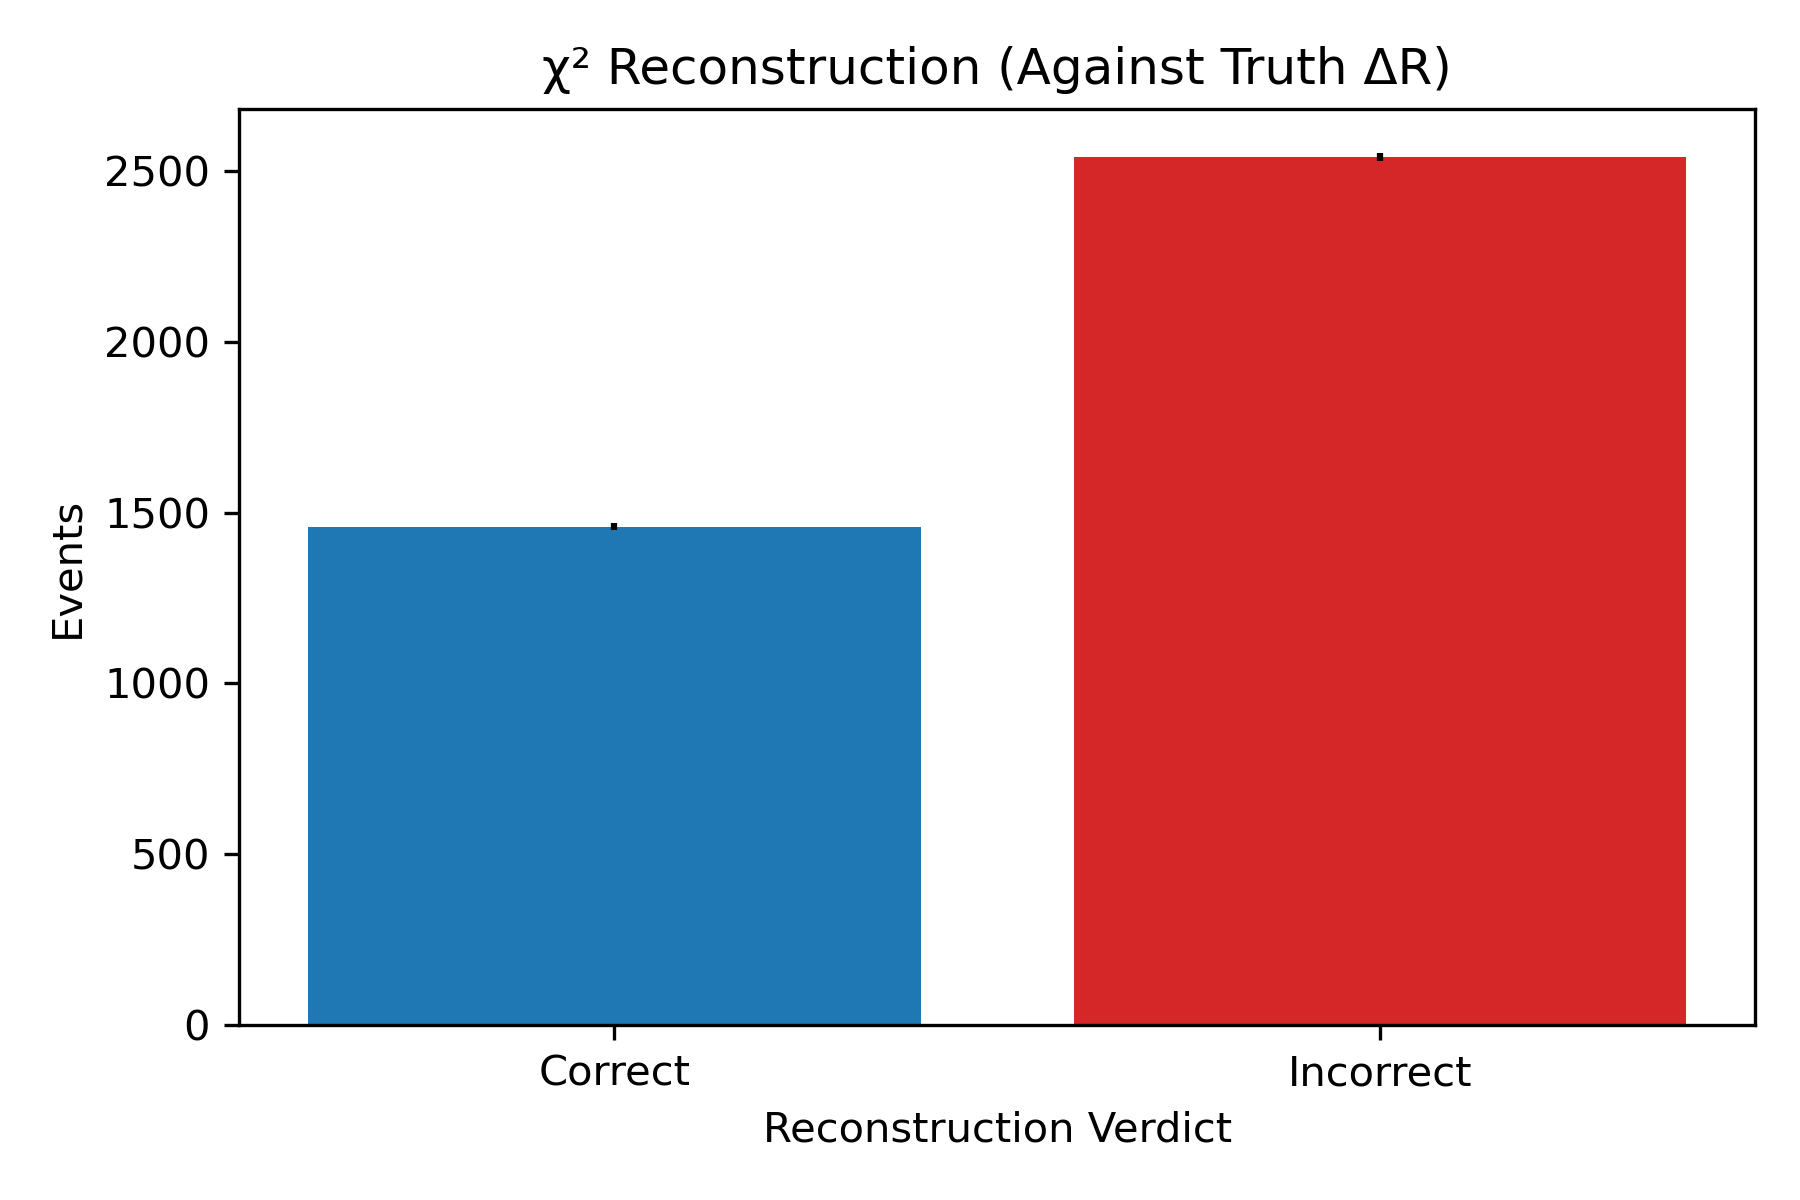
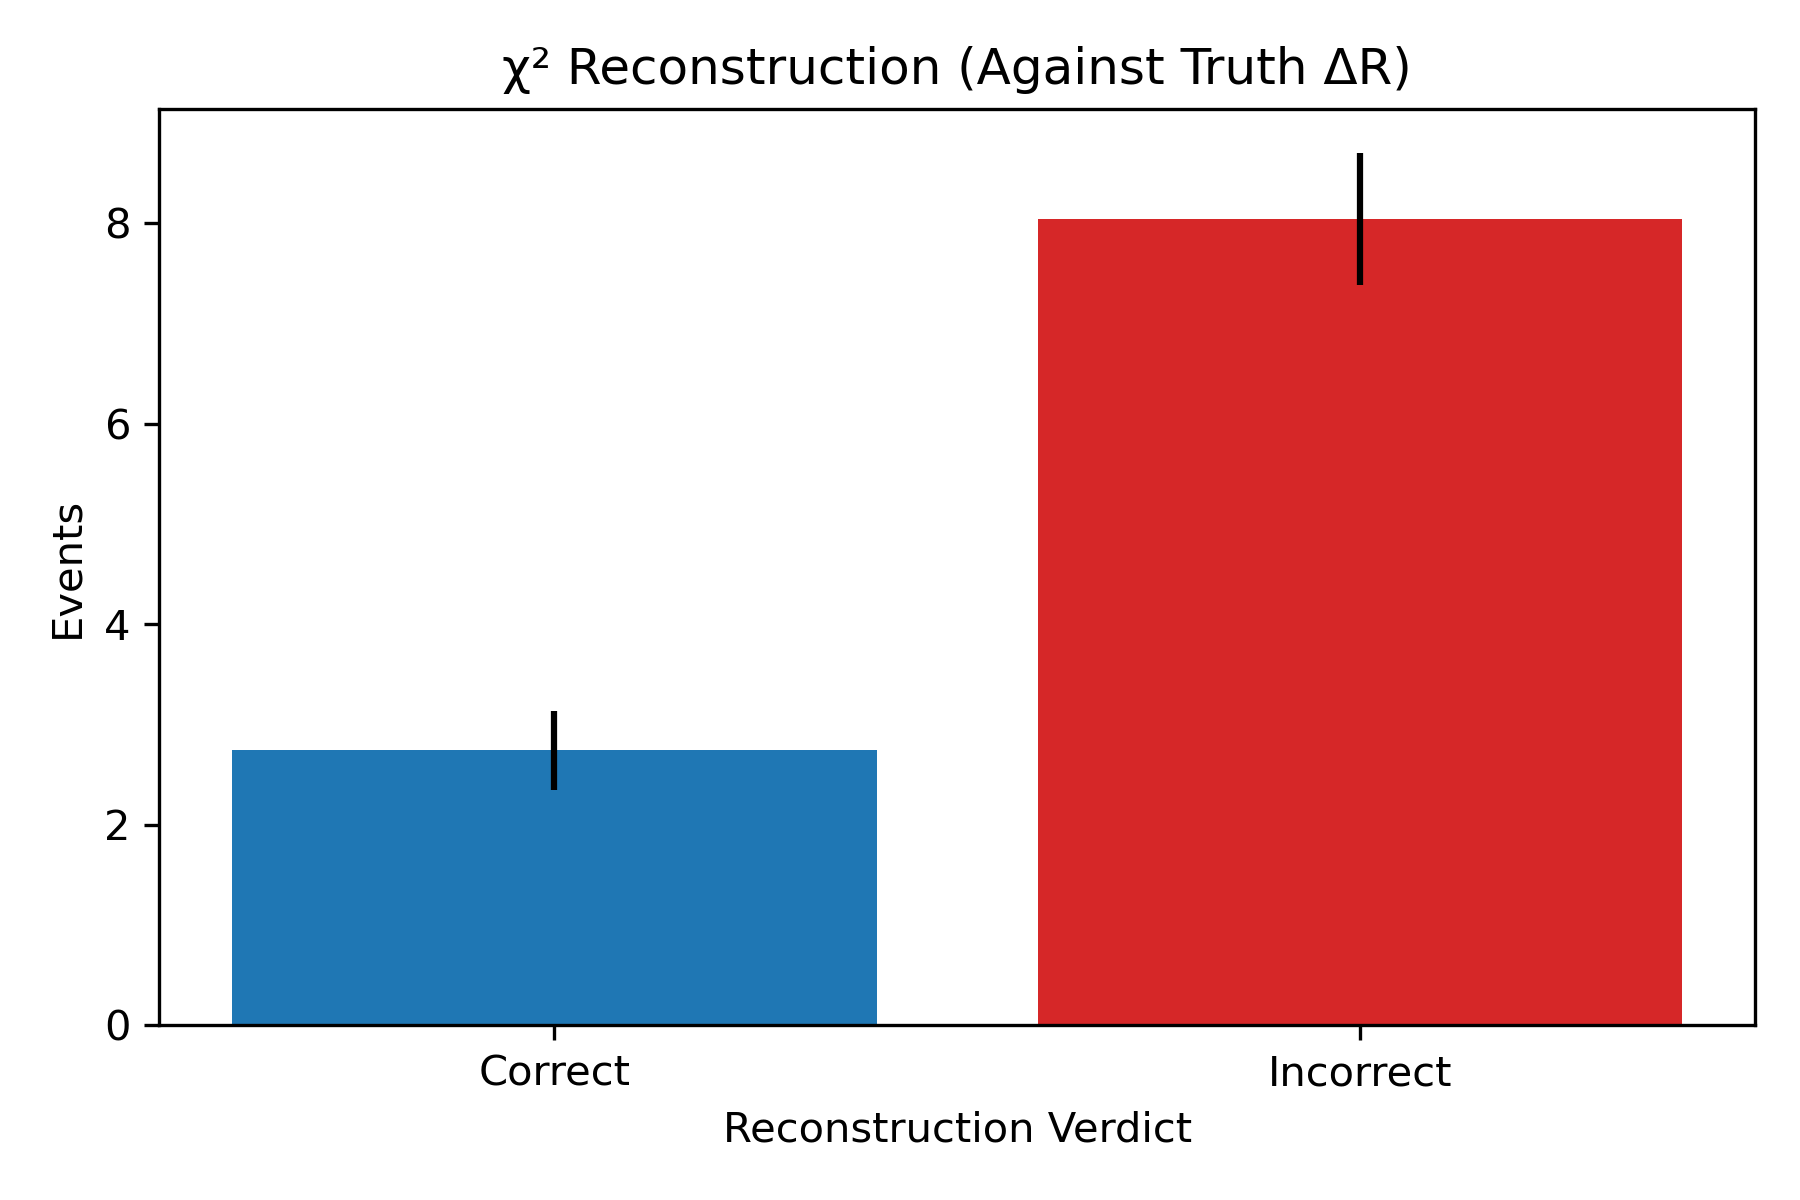
2.1.1 - Chi2 recon efficiency v. jet multiplicity, improved python plotting

diff --git a/read_n_plot.py b/read_n_plot.py
@@ -1,0 +1,91 @@
+import numpy as np
+import matplotlib.pyplot as plt
+
+def read_efficiency_block(filename, header):
+    data = []
+    reading = False
+
+    with open(filename) as f:
+        for line in f:
+            line = line.strip()
+
+            if not line:
+                reading = False
+                continue
+
+            if line.startswith("#"):
+                reading = header in line
+                continue
+
+            if reading:
+                nj, eff, err = map(float, line.split(","))
+                data.append((int(nj), eff, err))
+
+    data = np.array(data)
+    return data[:,0], data[:,1], data[:,2]
+
+
+nj_lpb, eff_lpb, err_lpb = read_efficiency_block(
+    "efficiency_v_jets.py", "lpb"
+)
+
+nj_lmbb, eff_lmbb, err_lmbb = read_efficiency_block(
+    "efficiency_v_jets.py", "lmbb"
+)
+
+plt.figure(figsize=(7,5))
+
+# ─────────────────────────────────────
+# l+ b  (step + error bars)
+# ─────────────────────────────────────
+plt.step(
+    nj_lpb, eff_lpb,
+    where="mid",
+    color="blue",
+    linewidth=1.5,
+    label=r"$b$-lepton pairing"
+)
+
+plt.errorbar(
+    nj_lpb, eff_lpb, yerr=err_lpb,
+    fmt="none",              # <-- no markers, no line
+    ecolor="black",
+    elinewidth=1,
+    capsize=4,
+    capthick=1
+)
+
+# ─────────────────────────────────────
+# l− b̄
+# ─────────────────────────────────────
+plt.step(
+    nj_lmbb, eff_lmbb,
+    where="mid",
+    color="red",
+    linewidth=1.5,
+    label=r"$\bar{b}$-lepton pairing"
+)
+
+plt.errorbar(
+    nj_lmbb, eff_lmbb, yerr=err_lmbb,
+    fmt="none",
+    ecolor="black",
+    elinewidth=1,
+    capsize=4,
+    capthick=1
+)
+
+plt.xlabel("Jet multiplicity")
+plt.ylabel("Reconstruction efficiency")
+plt.title(r"$\chi^2$ Reconstruction (Multi-Jet)")
+
+plt.grid(True, which="both", linestyle=":", linewidth=0.7)
+plt.legend(frameon=False)
+
+plt.xlim(left=0)
+plt.ylim(bottom=0, top=1.05)
+
+plt.tight_layout()
+plt.savefig("efficiency_v_jets.png", dpi=300)
+plt.show()
+plt.close()

diff --git a/compute_efficiency.py b/compute_efficiency.py
@@ -4,25 +4,16 @@ matplotlib.use("Agg")
 import matplotlib.pyplot as plt
 
 import ROOT
-
-# l+ b
-# Open your ROOT file and chain the ntuple
-f = ROOT.TFile.Open("output_ntuples/ttll_601230_mc23a_fullsim.root")
-tree = f.Get("tree")  # replace "tree" with your TTree name
-
-
-
-
 # --------------------------------------------------
 # Numerator and denominator
 # --------------------------------------------------
                  # total valid events
-N_fail = 2541.37
-N_pass = 1459.21
+N_fail = 8.04468
+N_pass = 2.74022
 N_tot  = N_fail + N_pass
 
-err_fail = 12.20
-err_success = 9.250
+err_fail = 0.6599
+err_success = 0.3904
 
 eff = N_pass / N_tot
 
@@ -48,7 +39,7 @@ sigma_eff = ratio*sqrt
 # Output
 # --------------------------------------------------
 print("Chi-squared Pairing Outcome (ΔR truth):")
-print(f"  Efficiency = {eff:.4f} ± {sigma_eff:.4f}")
+print(f"  Efficiency = {eff:.4f}, {sigma_eff:.4f}")
 
 
 labels = ["Correct", "Incorrect"]

diff --git a/FastFramesCustomClassTemplate/Root/Variables.cc b/FastFramesCustomClassTemplate/Root/Variables.cc
@@ -30,7 +30,7 @@ namespace ttZ{ //GPT aid
   // -----------------------------------------------------------------------------
   bool cutC25_exactly2jets(const RVec<float>& j_pt)
   {
-      return (j_pt.size() == 7); // CHANGED ACCORDING TO THE NEW REQUIREMENT
+      return (j_pt.size() <= 13); // CHANGED ACCORDING TO THE NEW REQUIREMENT
   }
 
   //////////////////////////////////////////////////////////////////////////////////////////////////////////////////////////////////////////////////////

diff --git a/efficiency_v_jets.py b/efficiency_v_jets.py
@@ -4,13 +4,11 @@
 4, 0.4908, 0.0008
 5, 0.4161, 0.0012
 6, 0.3643, 0.0018
-7, 
-8, 
-9, 
-10,
-11,
-12,
-13,
+7, 0.3259, 0.0030
+8, 0.2909, 0.0050
+9, 0.2593, 0.0086
+10, 0.2754, 0.0165
+11, 0.2580, 0.0311
 
 # Number of Jets, Reconstruction efficiency, Error - lmbb
 2, 0.8455, 0.0005
@@ -18,10 +16,8 @@
 4, 0.4903, 0.0008
 5, 0.4172, 0.0012
 6, 0.3647, 0.0018
-7, 
-8, 
-9, 
-10,
-11,
-12,
-13,
+7, 0.3213, 0.0030
+8, 0.2856, 0.0050
+9, 0.2678, 0.0087 
+10, 0.2797, 0.0166
+11, 0.2541, 0.0312
